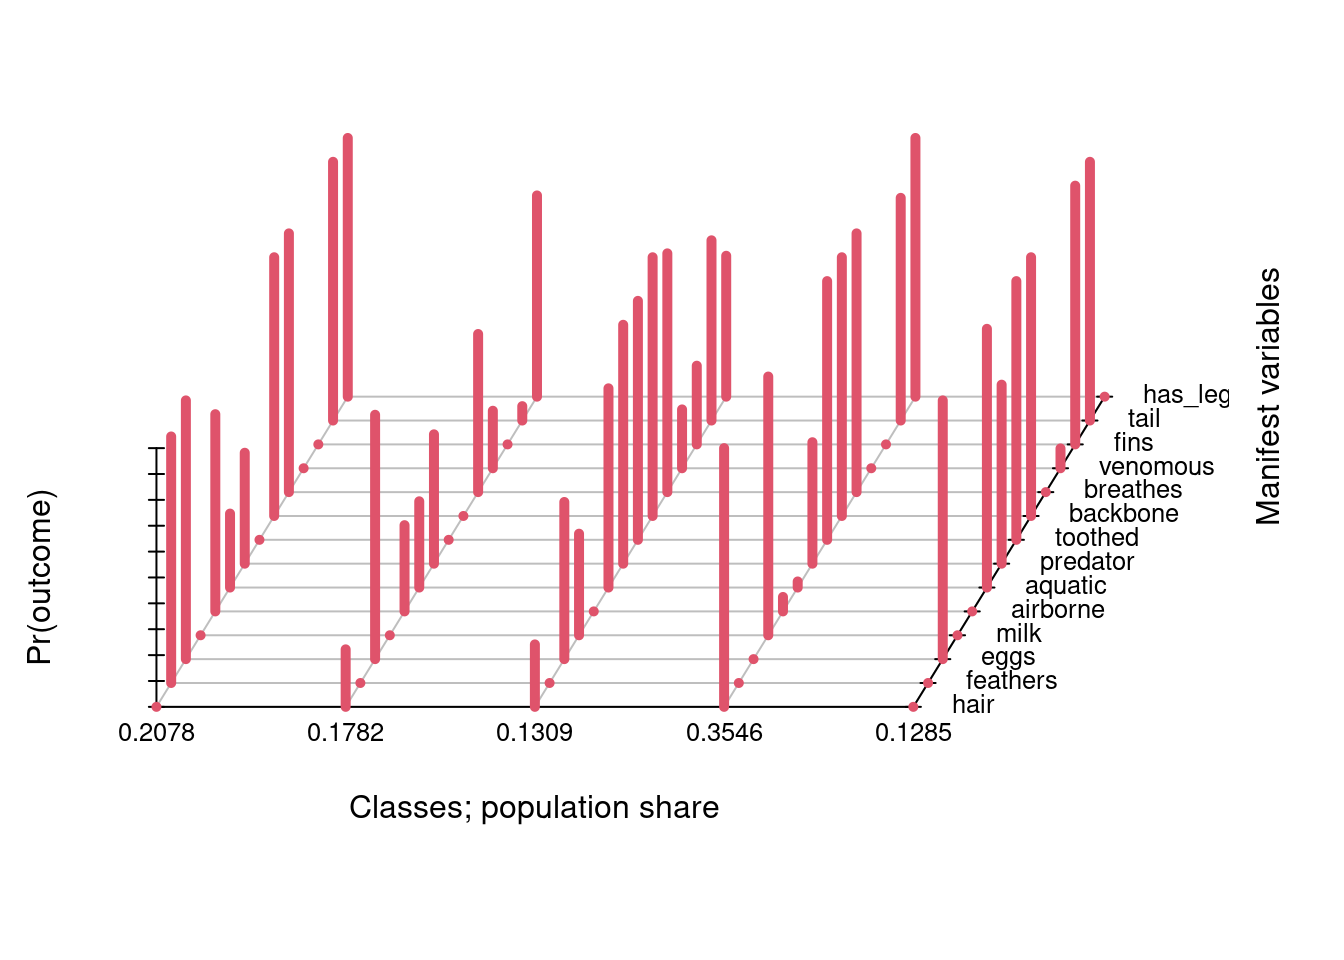
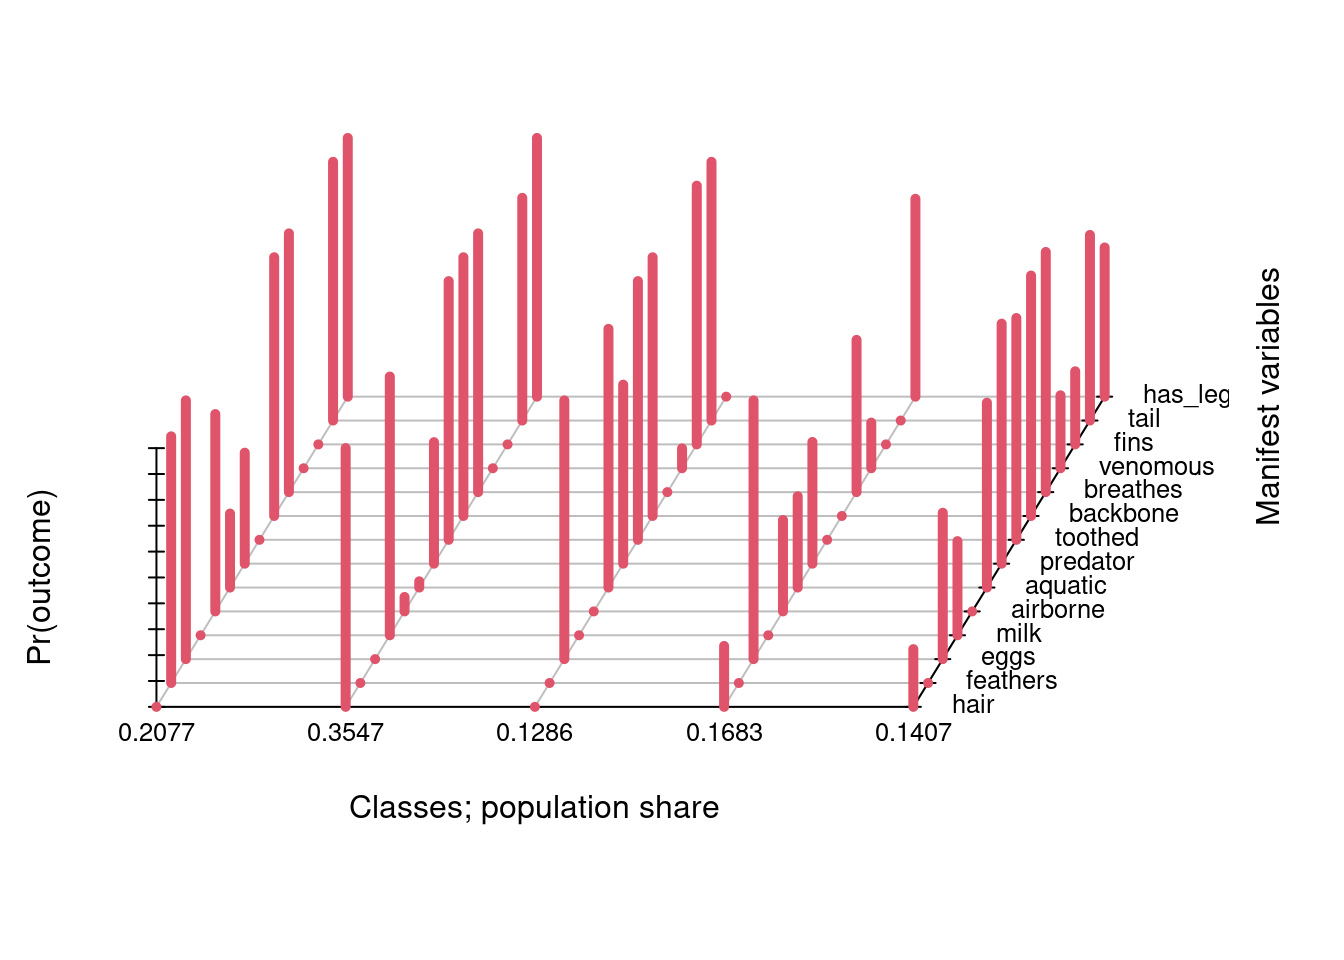
Updating qmd/html and adding figures/graphs

diff --git a/index.html b/index.html
@@ -566,104 +566,104 @@ Animal Classification
 </details>
 <div class="cell-output cell-output-stdout">
 <pre><code>Model 1: llik = -652.6443 ... best llik = -652.6443
-Model 2: llik = -652.6443 ... best llik = -652.6443
-Model 3: llik = -691.0384 ... best llik = -652.6443
-Model 4: llik = -680.9235 ... best llik = -652.6443
-Model 5: llik = -609.2337 ... best llik = -609.2337
-Model 6: llik = -609.2337 ... best llik = -609.2337
-Model 7: llik = -609.2559 ... best llik = -609.2337
-Model 8: llik = -609.2559 ... best llik = -609.2337
-Model 9: llik = -695.5513 ... best llik = -609.2337
-Model 10: llik = -695.5513 ... best llik = -609.2337
-Model 11: llik = -652.6443 ... best llik = -609.2337
-Model 12: llik = -609.2559 ... best llik = -609.2337
-Model 13: llik = -695.5513 ... best llik = -609.2337
-Model 14: llik = -680.9235 ... best llik = -609.2337
-Model 15: llik = -609.2337 ... best llik = -609.2337
-Model 16: llik = -680.9235 ... best llik = -609.2337
-Model 17: llik = -689.5641 ... best llik = -609.2337
-Model 18: llik = -609.2559 ... best llik = -609.2337
-Model 19: llik = -652.6443 ... best llik = -609.2337
-Model 20: llik = -680.9235 ... best llik = -609.2337
-Model 21: llik = -690.4955 ... best llik = -609.2337
-Model 22: llik = -609.2337 ... best llik = -609.2337
-Model 23: llik = -609.2559 ... best llik = -609.2337
-Model 24: llik = -652.6443 ... best llik = -609.2337
-Model 25: llik = -690.4955 ... best llik = -609.2337
-Model 26: llik = -609.2559 ... best llik = -609.2337
-Model 27: llik = -695.5513 ... best llik = -609.2337
-Model 28: llik = -608.5398 ... best llik = -608.5398
-Model 29: llik = -609.2559 ... best llik = -608.5398
-Model 30: llik = -609.2559 ... best llik = -608.5398
-Model 31: llik = -652.6443 ... best llik = -608.5398
-Model 32: llik = -609.2337 ... best llik = -608.5398
-Model 33: llik = -680.9235 ... best llik = -608.5398
-Model 34: llik = -609.2337 ... best llik = -608.5398
-Model 35: llik = -652.6443 ... best llik = -608.5398
+Model 2: llik = -609.2559 ... best llik = -609.2559
+Model 3: llik = -609.2559 ... best llik = -609.2559
+Model 4: llik = -608.5398 ... best llik = -608.5398
+Model 5: llik = -680.9235 ... best llik = -608.5398
+Model 6: llik = -690.4955 ... best llik = -608.5398
+Model 7: llik = -609.2337 ... best llik = -608.5398
+Model 8: llik = -609.2337 ... best llik = -608.5398
+Model 9: llik = -680.9235 ... best llik = -608.5398
+Model 10: llik = -609.2559 ... best llik = -608.5398
+Model 11: llik = -609.2559 ... best llik = -608.5398
+Model 12: llik = -652.6443 ... best llik = -608.5398
+Model 13: llik = -609.2559 ... best llik = -608.5398
+Model 14: llik = -680.9235 ... best llik = -608.5398
+Model 15: llik = -609.2559 ... best llik = -608.5398
+Model 16: llik = -652.6443 ... best llik = -608.5398
+Model 17: llik = -609.2559 ... best llik = -608.5398
+Model 18: llik = -609.2559 ... best llik = -608.5398
+Model 19: llik = -680.9235 ... best llik = -608.5398
+Model 20: llik = -609.2559 ... best llik = -608.5398
+Model 21: llik = -609.2337 ... best llik = -608.5398
+Model 22: llik = -689.3041 ... best llik = -608.5398
+Model 23: llik = -609.2559 ... best llik = -608.5398
+Model 24: llik = -700.0846 ... best llik = -608.5398
+Model 25: llik = -683.0577 ... best llik = -608.5398
+Model 26: llik = -680.9235 ... best llik = -608.5398
+Model 27: llik = -691.0384 ... best llik = -608.5398
+Model 28: llik = -609.2337 ... best llik = -608.5398
+Model 29: llik = -608.5398 ... best llik = -608.5398
+Model 30: llik = -652.6443 ... best llik = -608.5398
+Model 31: llik = -680.9235 ... best llik = -608.5398
+Model 32: llik = -610.8821 ... best llik = -608.5398
+Model 33: llik = -720.7657 ... best llik = -608.5398
+Model 34: llik = -609.2559 ... best llik = -608.5398
+Model 35: llik = -609.2337 ... best llik = -608.5398
 Model 36: llik = -609.2337 ... best llik = -608.5398
-Model 37: llik = -609.2559 ... best llik = -608.5398
+Model 37: llik = -652.6443 ... best llik = -608.5398
 Model 38: llik = -652.6443 ... best llik = -608.5398
-Model 39: llik = -652.6443 ... best llik = -608.5398
-Model 40: llik = -695.5513 ... best llik = -608.5398
-Model 41: llik = -609.2559 ... best llik = -608.5398
-Model 42: llik = -680.9235 ... best llik = -608.5398
-Model 43: llik = -680.9235 ... best llik = -608.5398
-Model 44: llik = -610.8821 ... best llik = -608.5398
+Model 39: llik = -609.2337 ... best llik = -608.5398
+Model 40: llik = -680.9235 ... best llik = -608.5398
+Model 41: llik = -652.6443 ... best llik = -608.5398
+Model 42: llik = -609.2559 ... best llik = -608.5398
+Model 43: llik = -652.6443 ... best llik = -608.5398
+Model 44: llik = -680.9235 ... best llik = -608.5398
 Model 45: llik = -609.2559 ... best llik = -608.5398
-Model 46: llik = -680.9235 ... best llik = -608.5398
-Model 47: llik = -652.6443 ... best llik = -608.5398
-Model 48: llik = -680.9235 ... best llik = -608.5398
-Model 49: llik = -609.2337 ... best llik = -608.5398
-Model 50: llik = -609.2559 ... best llik = -608.5398
+Model 46: llik = -609.2559 ... best llik = -608.5398
+Model 47: llik = -680.9235 ... best llik = -608.5398
+Model 48: llik = -652.6443 ... best llik = -608.5398
+Model 49: llik = -720.7657 ... best llik = -608.5398
+Model 50: llik = -609.2337 ... best llik = -608.5398
 Model 51: llik = -609.2337 ... best llik = -608.5398
-Model 52: llik = -652.6443 ... best llik = -608.5398
+Model 52: llik = -609.2337 ... best llik = -608.5398
 Model 53: llik = -652.6443 ... best llik = -608.5398
-Model 54: llik = -680.9235 ... best llik = -608.5398
-Model 55: llik = -691.0384 ... best llik = -608.5398
-Model 56: llik = -609.2337 ... best llik = -608.5398
-Model 57: llik = -695.5513 ... best llik = -608.5398
+Model 54: llik = -652.6443 ... best llik = -608.5398
+Model 55: llik = -609.2337 ... best llik = -608.5398
+Model 56: llik = -680.9235 ... best llik = -608.5398
+Model 57: llik = -680.9235 ... best llik = -608.5398
 Model 58: llik = -680.9235 ... best llik = -608.5398
-Model 59: llik = -652.6443 ... best llik = -608.5398
-Model 60: llik = -652.6443 ... best llik = -608.5398
-Model 61: llik = -680.9235 ... best llik = -608.5398
-Model 62: llik = -609.2559 ... best llik = -608.5398
-Model 63: llik = -720.7657 ... best llik = -608.5398
+Model 59: llik = -695.5513 ... best llik = -608.5398
+Model 60: llik = -695.5513 ... best llik = -608.5398
+Model 61: llik = -610.8821 ... best llik = -608.5398
+Model 62: llik = -683.0577 ... best llik = -608.5398
+Model 63: llik = -695.5513 ... best llik = -608.5398
 Model 64: llik = -652.6443 ... best llik = -608.5398
-Model 65: llik = -608.5398 ... best llik = -608.5398
-Model 66: llik = -609.2559 ... best llik = -608.5398
-Model 67: llik = -609.2559 ... best llik = -608.5398
-Model 68: llik = -609.2337 ... best llik = -608.5398
-Model 69: llik = -609.2559 ... best llik = -608.5398
-Model 70: llik = -608.5398 ... best llik = -608.5398
-Model 71: llik = -680.9235 ... best llik = -608.5398
-Model 72: llik = -652.6443 ... best llik = -608.5398
-Model 73: llik = -609.2559 ... best llik = -608.5398
-Model 74: llik = -609.2559 ... best llik = -608.5398
-Model 75: llik = -652.6443 ... best llik = -608.5398
-Model 76: llik = -720.7657 ... best llik = -608.5398
-Model 77: llik = -609.2559 ... best llik = -608.5398
-Model 78: llik = -652.6443 ... best llik = -608.5398
-Model 79: llik = -609.2337 ... best llik = -608.5398
-Model 80: llik = -609.2559 ... best llik = -608.5398
-Model 81: llik = -609.2337 ... best llik = -608.5398
+Model 65: llik = -680.9235 ... best llik = -608.5398
+Model 66: llik = -608.5398 ... best llik = -608.5398
+Model 67: llik = -652.6443 ... best llik = -608.5398
+Model 68: llik = -652.6443 ... best llik = -608.5398
+Model 69: llik = -683.0577 ... best llik = -608.5398
+Model 70: llik = -609.2337 ... best llik = -608.5398
+Model 71: llik = -652.6443 ... best llik = -608.5398
+Model 72: llik = -609.2337 ... best llik = -608.5398
+Model 73: llik = -652.6443 ... best llik = -608.5398
+Model 74: llik = -609.2337 ... best llik = -608.5398
+Model 75: llik = -608.5398 ... best llik = -608.5398
+Model 76: llik = -609.2559 ... best llik = -608.5398
+Model 77: llik = -652.6443 ... best llik = -608.5398
+Model 78: llik = -608.5398 ... best llik = -608.5398
+Model 79: llik = -652.6443 ... best llik = -608.5398
+Model 80: llik = -680.9235 ... best llik = -608.5398
+Model 81: llik = -652.6443 ... best llik = -608.5398
 Model 82: llik = -680.9235 ... best llik = -608.5398
-Model 83: llik = -695.5513 ... best llik = -608.5398
-Model 84: llik = -680.9235 ... best llik = -608.5398
-Model 85: llik = -680.9235 ... best llik = -608.5398
-Model 86: llik = -609.2337 ... best llik = -608.5398
+Model 83: llik = -652.6443 ... best llik = -608.5398
+Model 84: llik = -652.6443 ... best llik = -608.5398
+Model 85: llik = -609.2337 ... best llik = -608.5398
+Model 86: llik = -608.5398 ... best llik = -608.5398
 Model 87: llik = -652.6443 ... best llik = -608.5398
-Model 88: llik = -652.6443 ... best llik = -608.5398
-Model 89: llik = -680.9235 ... best llik = -608.5398
-Model 90: llik = -695.5513 ... best llik = -608.5398
-Model 91: llik = -652.6443 ... best llik = -608.5398
-Model 92: llik = -609.2559 ... best llik = -608.5398
-Model 93: llik = -609.2337 ... best llik = -608.5398
-Model 94: llik = -652.6443 ... best llik = -608.5398
-Model 95: llik = -680.9235 ... best llik = -608.5398
-Model 96: llik = -680.9235 ... best llik = -608.5398
-Model 97: llik = -683.0577 ... best llik = -608.5398
+Model 88: llik = -680.9235 ... best llik = -608.5398
+Model 89: llik = -703.2829 ... best llik = -608.5398
+Model 90: llik = -689.5641 ... best llik = -608.5398
+Model 91: llik = -680.9235 ... best llik = -608.5398
+Model 92: llik = -695.5513 ... best llik = -608.5398
+Model 93: llik = -608.5398 ... best llik = -608.5398
+Model 94: llik = -680.9235 ... best llik = -608.5398
+Model 95: llik = -609.2337 ... best llik = -608.5398
+Model 96: llik = -683.0577 ... best llik = -608.5398
+Model 97: llik = -609.2559 ... best llik = -608.5398
 Model 98: llik = -680.9235 ... best llik = -608.5398
-Model 99: llik = -652.6443 ... best llik = -608.5398
+Model 99: llik = -609.2559 ... best llik = -608.5398
 Model 100: llik = -609.2559 ... best llik = -608.5398</code></pre>
 </div>
 <div class="cell-output-display">
@@ -675,79 +675,79 @@ Model 100: llik = -609.2559 ... best llik = -608.5398</code></pre>
  
 $hair
            Pr(1)  Pr(2)
-class 1:  0.0483 0.9517
-class 2:  0.9181 0.0819
+class 1:  0.9181 0.0819
+class 2:  0.0483 0.9517
 
 $feathers
            Pr(1)  Pr(2)
-class 1:  1.0000 0.0000
-class 2:  0.6725 0.3275
+class 1:  0.6725 0.3275
+class 2:  1.0000 0.0000
 
 $eggs
           Pr(1) Pr(2)
-class 1:  1.000 0.000
-class 2:  0.034 0.966
+class 1:  0.034 0.966
+class 2:  1.000 0.000
 
 $milk
            Pr(1)  Pr(2)
-class 1:  0.0000 1.0000
-class 2:  0.9824 0.0176
+class 1:  0.9824 0.0176
+class 2:  0.0000 1.0000
 
 $airborne
            Pr(1)  Pr(2)
-class 1:  0.9499 0.0501
-class 2:  0.6398 0.3602
+class 1:  0.6398 0.3602
+class 2:  0.9499 0.0501
 
 $aquatic
            Pr(1)  Pr(2)
-class 1:  0.8766 0.1234
-class 2:  0.4912 0.5088
+class 1:  0.4912 0.5088
+class 2:  0.8766 0.1234
 
 $predator
            Pr(1)  Pr(2)
-class 1:  0.4759 0.5241
-class 2:  0.4257 0.5743
+class 1:  0.4257 0.5743
+class 2:  0.4759 0.5241
 
 $toothed
            Pr(1)  Pr(2)
-class 1:  0.0000 1.0000
-class 2:  0.6549 0.3451
+class 1:  0.6549 0.3451
+class 2:  0.0000 1.0000
 
 $backbone
            Pr(1)  Pr(2)
-class 1:  0.0000 1.0000
-class 2:  0.2947 0.7053
+class 1:  0.2947 0.7053
+class 2:  0.0000 1.0000
 
 $breathes
            Pr(1)  Pr(2)
-class 1:  0.0000 1.0000
-class 2:  0.3438 0.6562
+class 1:  0.3438 0.6562
+class 2:  0.0000 1.0000
 
 $venomous
           Pr(1) Pr(2)
-class 1:  1.000 0.000
-class 2:  0.869 0.131
+class 1:  0.869 0.131
+class 2:  1.000 0.000
 
 $fins
            Pr(1)  Pr(2)
-class 1:  0.9017 0.0983
-class 2:  0.7859 0.2141
+class 1:  0.7859 0.2141
+class 2:  0.9017 0.0983
 
 $tail
            Pr(1)  Pr(2)
-class 1:  0.1503 0.8497
-class 2:  0.3275 0.6725
+class 1:  0.3275 0.6725
+class 2:  0.1503 0.8497
 
 $has_legs
            Pr(1)  Pr(2)
-class 1:  0.0733 0.9267
-class 2:  0.3287 0.6713
+class 1:  0.3287 0.6713
+class 2:  0.0733 0.9267
 
 Estimated class population shares 
- 0.3953 0.6047 
+ 0.6047 0.3953 
  
 Predicted class memberships (by modal posterior prob.) 
- 0.396 0.604 
+ 0.604 0.396 
  
 ========================================================= 
 Fit for 2 latent classes: 
@@ -760,7 +760,7 @@ maximum log-likelihood: -608.5398
 AIC(2): 1275.08
 BIC(2): 1350.918
 G^2(2): 571.2106 (Likelihood ratio/deviance statistic) 
-X^2(2): 21906.55 (Chi-square goodness of fit) 
+X^2(2): 21906.56 (Chi-square goodness of fit) 
  </code></pre>
 </div>
 </div>
@@ -881,7 +881,7 @@ Entropy
 5-Class Model
 </td>
 <td style="text-align:right;">
-4.137245
+4.136046
 </td>
 </tr>
 <tr>
